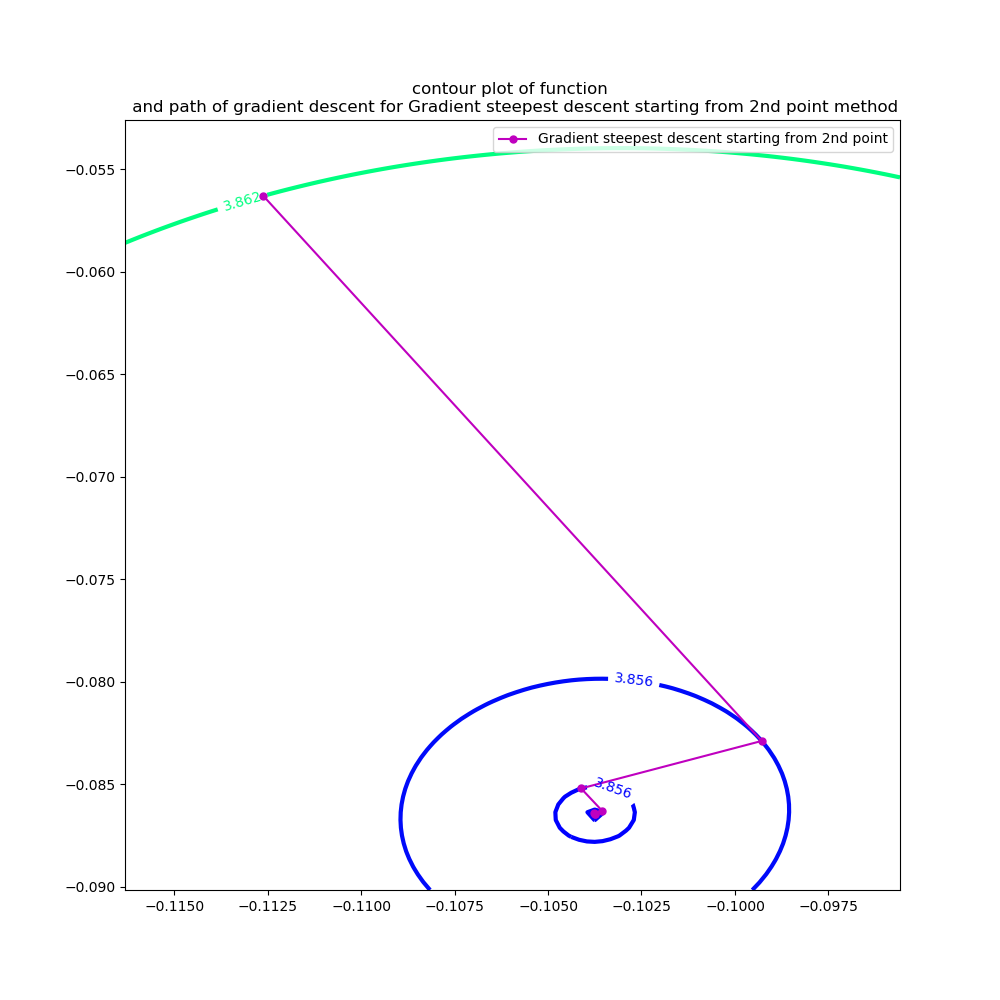
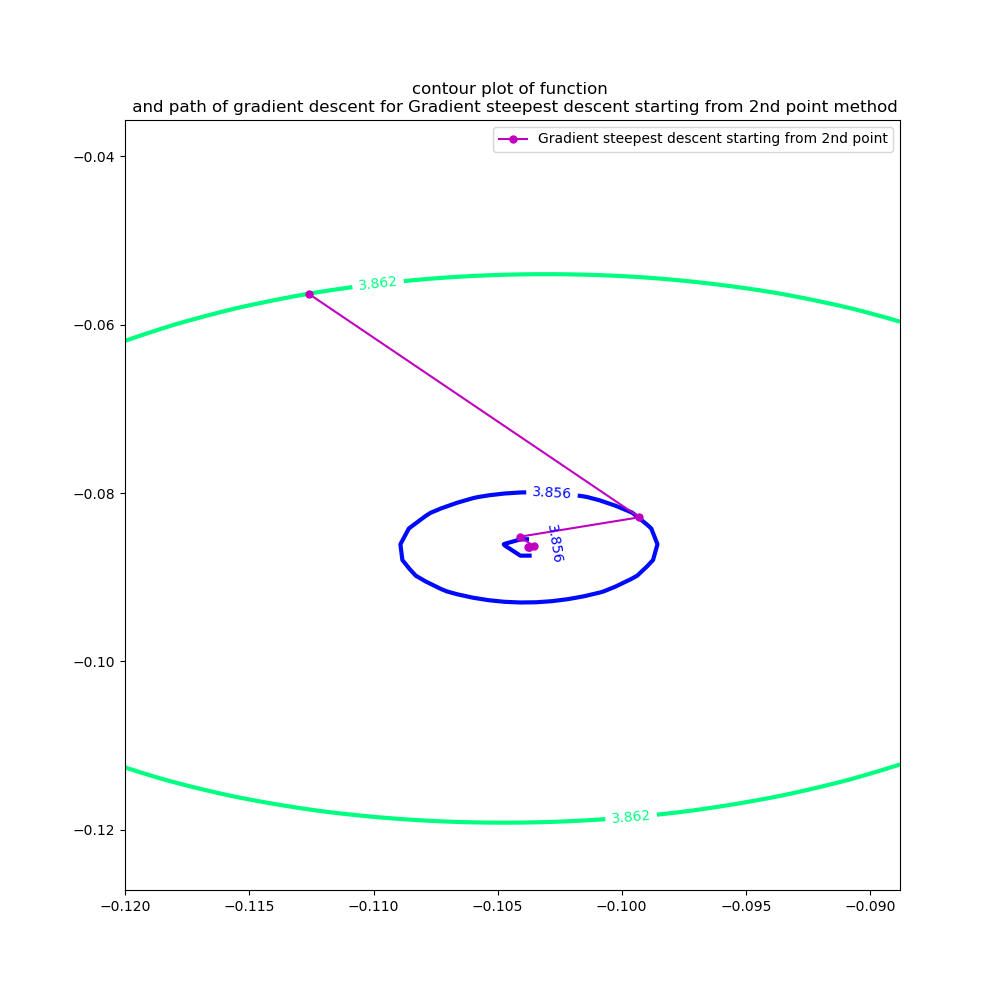
fix feasible directions method - fix simplex matrix in linear subproblem - change stop criterion - add print info

diff --git a/lab5_gradient_constrained/feasible_directions.py b/lab5_gradient_constrained/feasible_directions.py
@@ -10,7 +10,7 @@ class FeasibleDirectionsOptimizer:
         self.func_obj = func_obj
         self.phi_ineq_list = phi_ineq_list
 
-    def optimize(self):
+    def optimize(self, print_info=False):
         # zero step problem
         theta_obj, phi_ineq_list = self.__zero_step_subtask()
         zero_step_problem = FeasibleDirectionsOptimizer(theta_obj, phi_ineq_list)
@@ -18,7 +18,8 @@ class FeasibleDirectionsOptimizer:
         x_0, theta = x0_w_theta[:-1], x0_w_theta[-1]
 
         # result
-        return self.__inner_optimize(x_0, -theta)
+        PRINT_EPOCH = 1
+        return self.__inner_optimize(x_0, -theta, print_info, PRINT_EPOCH)
 
     @staticmethod
     def __generate_phi_zero_step_subtask(phi):
@@ -51,8 +52,8 @@ class FeasibleDirectionsOptimizer:
 
         return func_theta, phi_new_list
 
-    def __inner_optimize(self, x_0, delta_0):
-        ZERO_TOL = 1.e-7
+    def __inner_optimize(self, x_0, delta_0, print_info=False, print_epoch=10):
+        ZERO_TOL = 1.e-6
         lambda_ = 0.5
         xi_list = np.ones(len(self.phi_ineq_list) + 1)
 
@@ -60,12 +61,15 @@ class FeasibleDirectionsOptimizer:
 
         step_count = 0
         while True:
+            if print_info and step_count % print_epoch == 0:
+                print(f'k: {step_count}, x_k: {x_cur}, f(x_k): {self.func_obj.ev_func(x_cur)}')
+
             s_cur, theta_cur = self.__first_problem(x_cur, xi_list, delta_cur)
 
             if step_count == 0:
                 delta_cur = -theta_cur
 
-            if -delta_cur <= theta_cur < 0:
+            if -delta_cur <= theta_cur:
                 x_cur = x_cur
                 delta_cur *= lambda_
 
@@ -74,16 +78,12 @@ class FeasibleDirectionsOptimizer:
                 x_cur += alpha_k * s_cur
                 delta_cur = delta_cur
 
-            delta_ok = - max(
-                (self.func_obj.ev_func(x_cur),
-                 max(
-                     [phi.ev_func(x_cur) for phi in self.phi_ineq_list
-                      if phi.ev_func(x_cur) != 0]
-                 )
-                 )
-            )
             step_count += 1
-            if delta_cur < delta_ok and np.abs(theta_cur) <= ZERO_TOL:
+            delta_0k = -max(
+                [phi.ev_func(x_cur) for phi in self.phi_ineq_list
+                 if phi.ev_func(x_cur) != 0]
+            )
+            if delta_cur < delta_0k and np.abs(theta_cur) <= ZERO_TOL:
                 return x_cur
 
     def __find_alpha_cur(self, x_cur, theta_cur, s_cur, xi_list, lambda_):
@@ -96,10 +96,6 @@ class FeasibleDirectionsOptimizer:
                              phi in self.phi_ineq_list])
                 ).all()
         ):
-            shit_2 = (self.func_obj.ev_func(x_cur + alpha_cur*s_cur) - self.func_obj.ev_func(x_cur))
-            shit_3 = 0.5 * xi_list[0] * theta_cur * alpha_cur
-            shit = np.asarray([phi.ev_func(x_cur + alpha_cur * s_cur) <= 0 for
-                               phi in self.phi_ineq_list])
             alpha_cur *= lambda_
         return alpha_cur
 
@@ -110,15 +106,16 @@ class FeasibleDirectionsOptimizer:
             for phi_i in self.phi_ineq_list
         ]
         A_matrix_simplex = np.column_stack(
-            [A_matrix_simplex, xi_list[1:].reshape((-1, 1))]
+            [A_matrix_simplex, -xi_list[1:].reshape((-1, 1))]
         )
-        J = [-delta <= phi_i.ev_func(x_cur) <= 0 for phi_i in self.phi_ineq_list]
-
         A_matrix_simplex = np.row_stack(
             [A_matrix_simplex,
-             np.append(self.func_obj.ev_gradient(x_cur), xi_list[0])]
+             np.append(self.func_obj.ev_gradient(x_cur), -xi_list[0])]
         )
-        A_matrix_simplex = A_matrix_simplex[np.append(J, True)]
+
+        # drop rows not in J list
+        J = np.append([-delta <= phi_i.ev_func(x_cur) <= 0 for phi_i in self.phi_ineq_list], True)
+        A_matrix_simplex = A_matrix_simplex[J]
 
         # b vector
         b_simplex = np.zeros(len(A_matrix_simplex))

diff --git a/lab4_gradient_descent/research.py b/lab4_gradient_descent/research.py
@@ -24,8 +24,18 @@ def plot_contour_with_curves(func, curve_x, curve_name):
 
     std = np.std(x_points)
 
-    x_grid = np.linspace(np.min(x_points) - std, np.max(x_points) + std, N_POINTS)
-    y_grid = np.linspace(np.min(y_points) - std, np.max(y_points) + std, N_POINTS)
+    def plot_range(points):
+        points = np.asarray(points)
+        return np.max(np.abs(points - np.mean(points))) + 2*np.std(points)
+
+    x_range, y_range = plot_range(x_points), plot_range(y_points)
+
+    #x_grid = np.linspace(np.min(x_points) - std, np.max(x_points) + std, N_POINTS)
+    #y_grid = np.linspace(np.min(y_points) - std, np.max(y_points) + std, N_POINTS)
+
+    x_grid = np.linspace(np.mean(x_points) - x_range, np.mean(x_points) + x_range)
+    y_grid = np.linspace(np.mean(y_points) - y_range, np.mean(y_points) + y_range)
+
     xx, yy = np.meshgrid(x_grid, y_grid)
     z = func_xy(xx, yy)
 

diff --git a/lab5_gradient_constrained/main.py b/lab5_gradient_constrained/main.py
@@ -24,6 +24,11 @@ phi_functions = [
     lambda x: 4.0*x[0] + x[1] - 20.0
 ]
 
+phi_functions_quadratic = [
+    lambda x: -0.2*x[0]**2 + x[1] - 3,
+    lambda x: x[0]**2 - x[1] - 5
+]
+
 phi_gradients = [
     lambda x: [-1.0, 1],
     lambda x: [-3.0, -1.0],
@@ -31,8 +36,13 @@ phi_gradients = [
     lambda x: [-4.0, 1.0]
 ]
 
+phi_gradients_quadratic = [
+    lambda x: [-0.4*x[0], 1],
+    lambda x: [2*x[0], -1]
+]
+
 phi_ineq_list = [FunctionDifferentiable(F_DIM, func, grad)
-                 for func, grad in zip(phi_functions, phi_gradients)]
+                 for func, grad in zip(phi_functions_quadratic, phi_gradients_quadratic)]
 
 
 def main():
@@ -40,7 +50,7 @@ def main():
         func_obj=func_differentiable,
         phi_ineq_list=phi_ineq_list
     )
-    x = FDO.optimize()
+    x = FDO.optimize(print_info=True)
     pass
 
 if __name__ == '__main__':

diff --git a/lab4_gradient_descent/main.py b/lab4_gradient_descent/main.py
@@ -67,6 +67,7 @@ def draw_gradient_curve(optimizer, optimizer_name):
     tol = 1.e-4
     _, x_path = optimizer.optimize(tol, print_info=False)
 
+    print(f'number of iterations for {optimizer_name} :{len(x_path)}')
     plot_contour_with_curves(
         func=func,
         curve_x=x_path,
@@ -79,7 +80,16 @@ def draw_gradient_curve(optimizer, optimizer_name):
     )
 
 
+def newton_research():
+    newton_optimizer = GradientDescent2Order(func_differentiable)
+    newton_optimizer.optimize(tol=1.e-2, step=0.5)
+
+
 def main():
+
+    newton_research()
+    return
+
     optimizers_dict = {
         'Gradient steepest descent': GradientSteepestDescent(func_differentiable),
         'Newton gradient descent': GradientDescent2Order(func_differentiable),

diff --git a/lab4_gradient_descent/gradient_descent_second_order.py b/lab4_gradient_descent/gradient_descent_second_order.py
@@ -11,6 +11,11 @@ class GradientDescent2Order(IterativeOptimizer):
 
     @property
     def __initial_x(self):
+        x = [0, np.random.normal(0, 5)]
+        print(x)
+        #return x
+        return [1/2]
+        return [1/2, -1/2]
         return np.zeros(self._func.dim)
 
     def optimize(self, tol, step=1.0, print_info=True):
